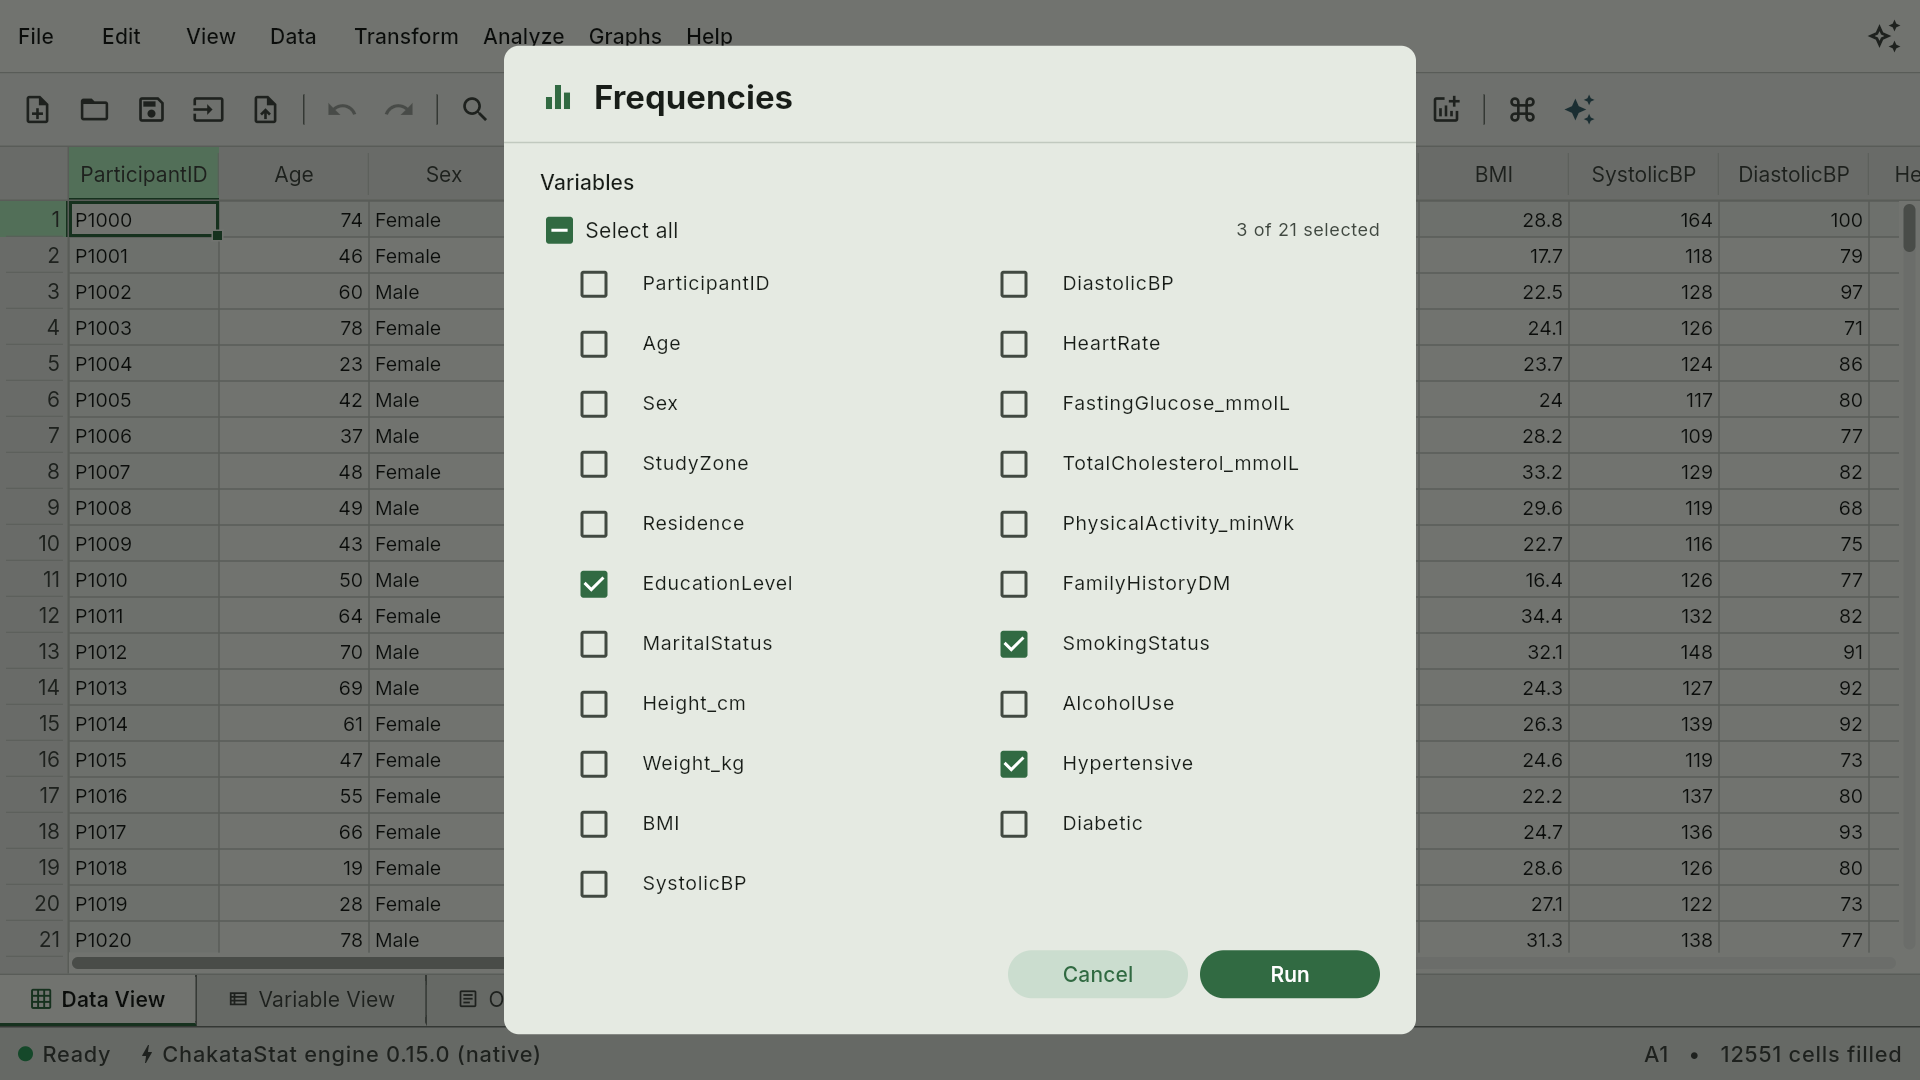
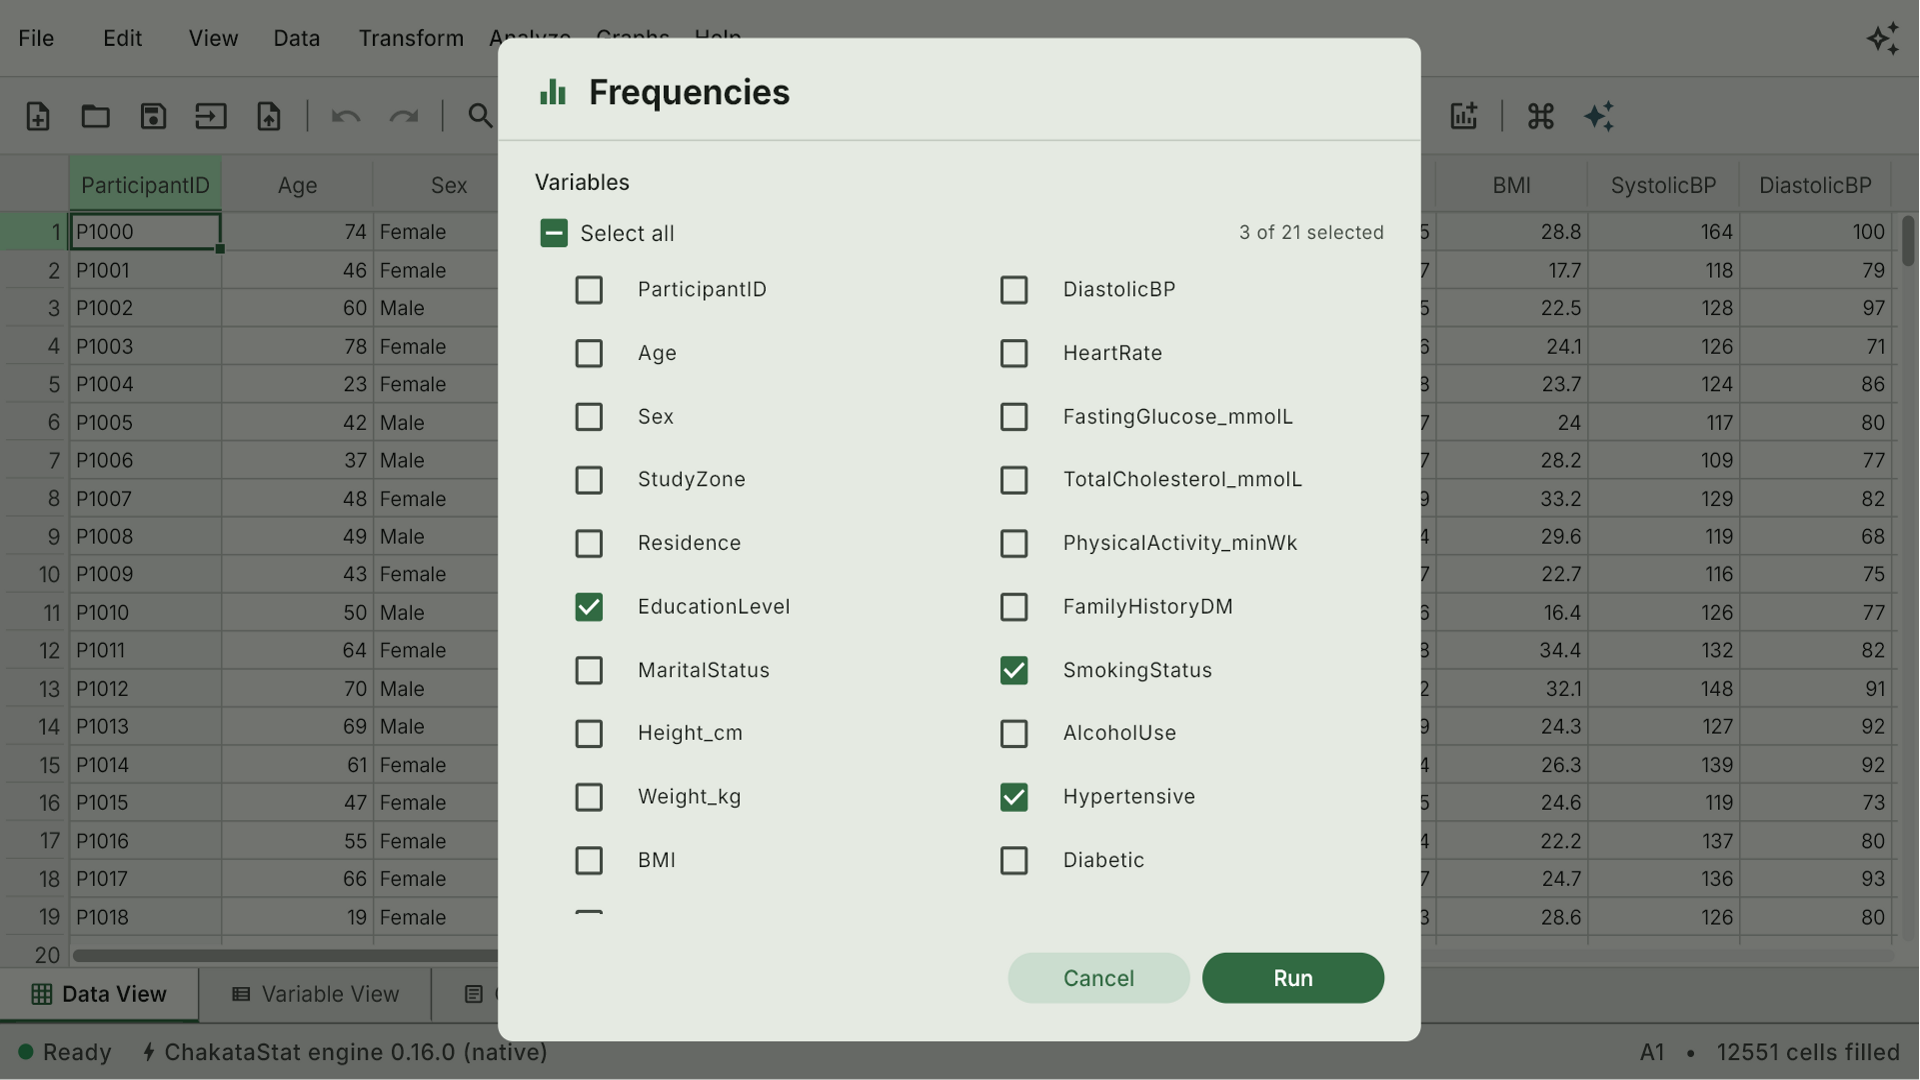
Refresh the screenshot gallery at 0.16.0; the scatterplot matrix joins
All eleven assets are byte-copies of the 0.16.0 Windows scene set (the
capture OS moved from Linux with this leg, so every asset changes). The
scatterplot matrix - the release flagship - gains its gallery tab and
joins the JSON-LD screenshot list as scatterplot-matrix.png.

diff --git a/index.html b/index.html
@@ -43,7 +43,8 @@
   "screenshot": [
     "https://chakatastat.app/assets/screenshots/data-editor.png",
     "https://chakatastat.app/assets/screenshots/output-view.png",
-    "https://chakatastat.app/assets/screenshots/forest-plot.png"
+    "https://chakatastat.app/assets/screenshots/forest-plot.png",
+    "https://chakatastat.app/assets/screenshots/scatterplot-matrix.png"
   ],
   "author": {
     "@type": "Person",
@@ -361,6 +362,7 @@ ChakataStat --mcp health_study.csv</code></pre>
             <button role="tab" id="shot-tab-meta" aria-controls="shot-panel-meta" aria-selected="false" tabindex="-1" class="shot-tab" type="button">Meta-analysis</button>
             <button role="tab" id="shot-tab-dark" aria-controls="shot-panel-dark" aria-selected="false" tabindex="-1" class="shot-tab" type="button">Propensity</button>
             <button role="tab" id="shot-tab-moderation" aria-controls="shot-panel-moderation" aria-selected="false" tabindex="-1" class="shot-tab" type="button">Moderation</button>
+            <button role="tab" id="shot-tab-matrix" aria-controls="shot-panel-matrix" aria-selected="false" tabindex="-1" class="shot-tab" type="button">Scatterplot matrix</button>
           </div>
 
           <div class="shot-panel" role="tabpanel" id="shot-panel-data" aria-labelledby="shot-tab-data" tabindex="0">
@@ -430,6 +432,16 @@ ChakataStat --mcp health_study.csv</code></pre>
                 <span class="visually-hidden"> &mdash; enlarge</span>
               </button>
               <figcaption>Moderated mediation &mdash; the interaction plot draws the simple slopes at each probe value of the moderator, so &ldquo;for whom?&rdquo; is a picture rather than a coefficient.</figcaption>
+            </figure>
+          </div>
+
+          <div class="shot-panel" role="tabpanel" id="shot-panel-matrix" aria-labelledby="shot-tab-matrix" tabindex="0" hidden>
+            <figure class="screenshot-card">
+              <button class="shot-trigger" type="button">
+                <img src="assets/screenshots/scatterplot-matrix.png" alt="A scatterplot matrix in ChakataStat: a grid of square panels, one scatterplot for every pair of numeric variables, variable names on the diagonal" loading="lazy">
+                <span class="visually-hidden"> &mdash; enlarge</span>
+              </button>
+              <figcaption>The scatterplot matrix &mdash; every numeric pair in one grid of square panels, the first look at a multivariate dataset.</figcaption>
             </figure>
           </div>
         </div>
